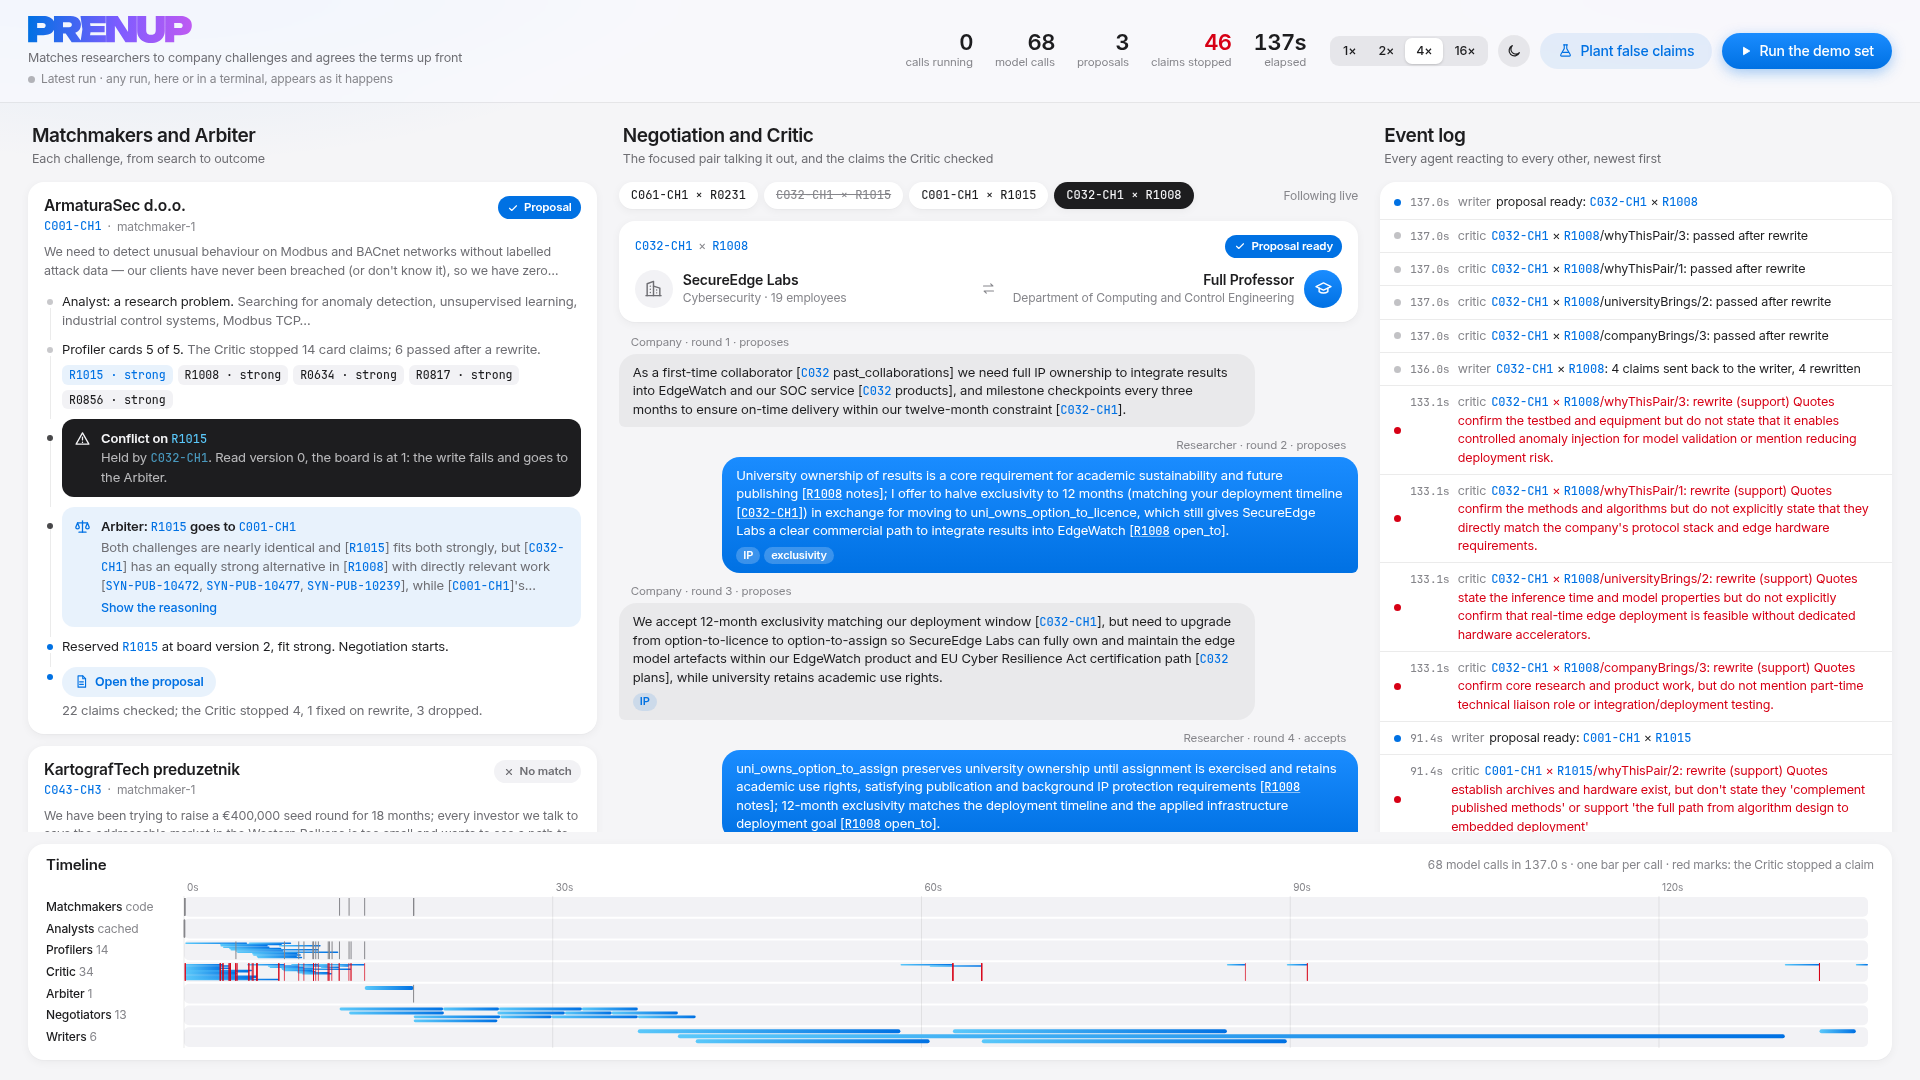
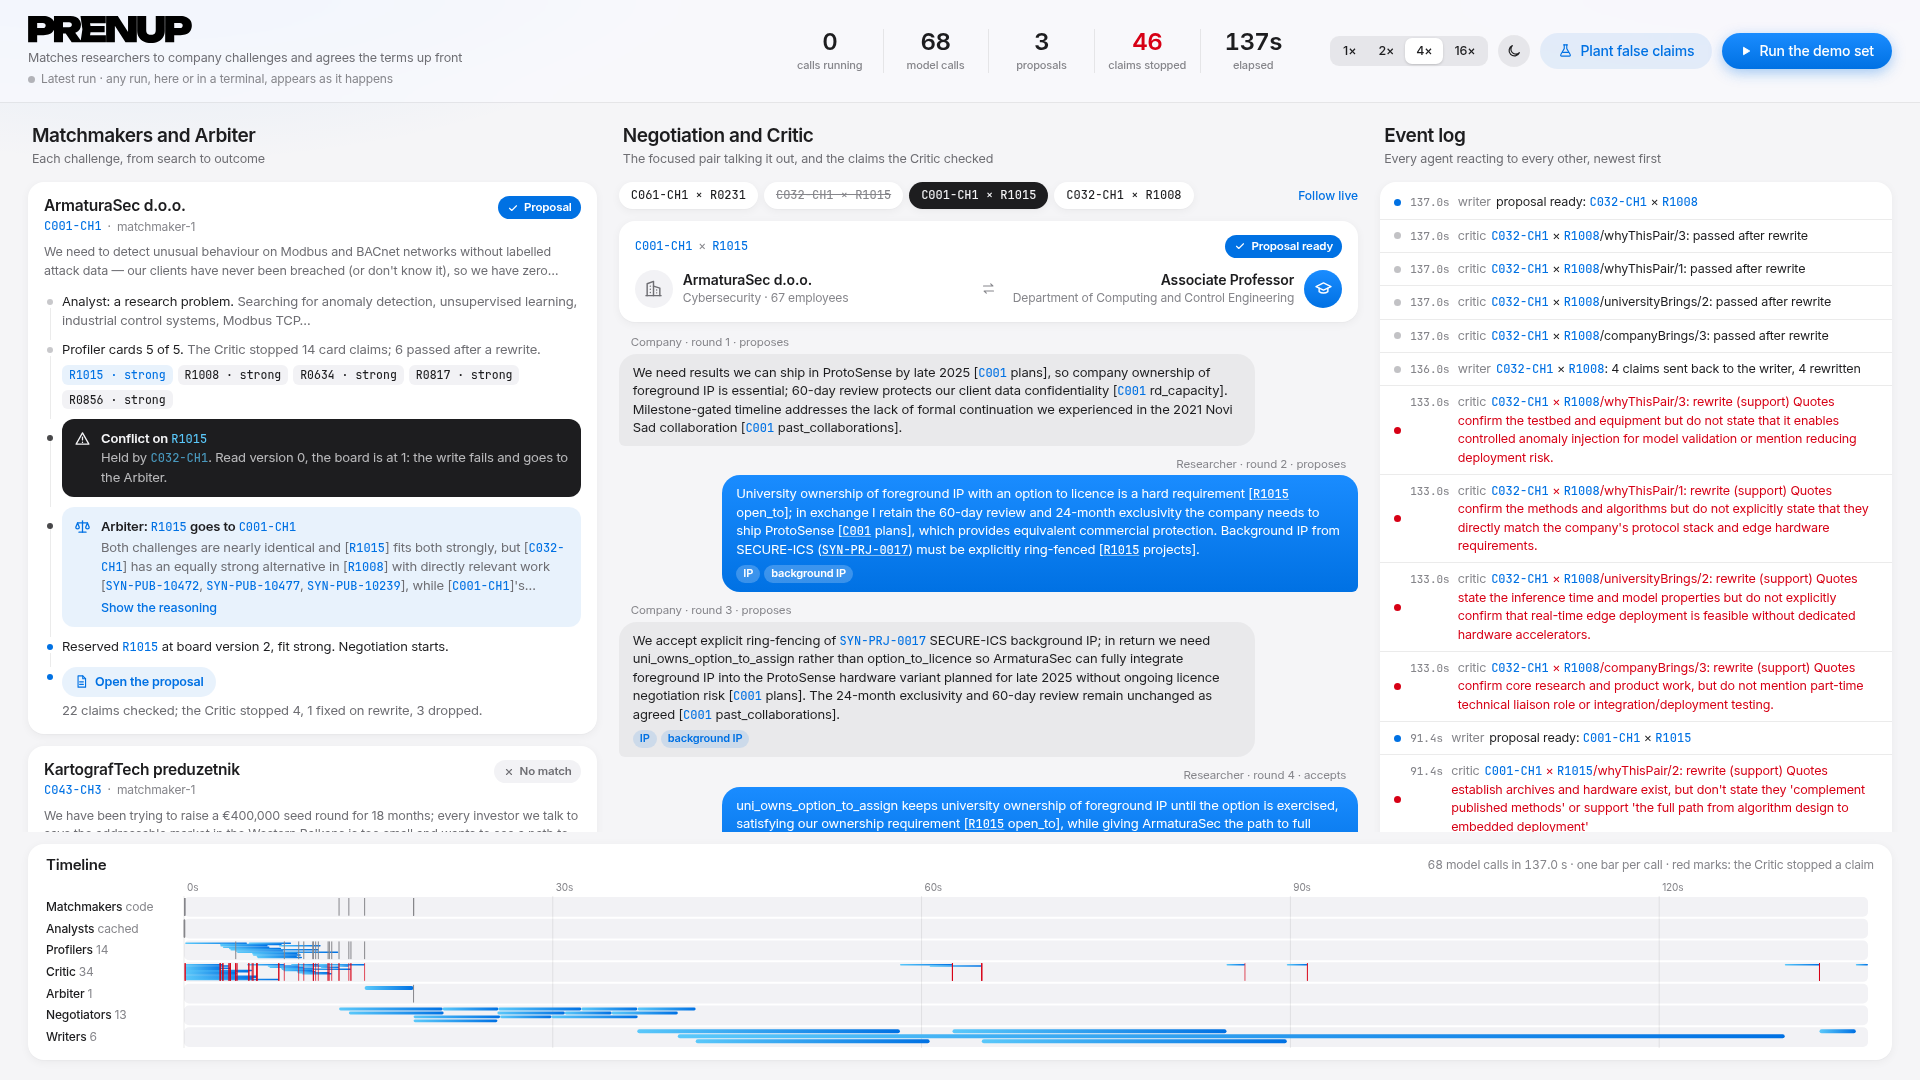
fix: make the first run work for judges on their own machines
- Board: start Run and Plant with Node and tsx's entry file, since the
  .bin shim can't be spawned on Windows; report a failed start instead of
  crashing.
- Header fits small laptops (1280 and 1366 wide); shorter timeline on
  short screens. Stats styled as centred columns.
- .gitattributes keeps LF so setup.sh runs under Git Bash with autocrlf.
- Node minimum 20.12 (parseEnv); README recommends 22 (vitest needs 22.12).
- One telemetry notice per run instead of 86.
- README: Windows steps, a two-minute board tour, what's weak in the
  Arbiter's reasoning and the negotiators' citations, a known false stop.
- New board screenshot.

diff --git a/src/board/index.html b/src/board/index.html
@@ -56,10 +56,11 @@
   .brand .status i { width: 7px; height: 7px; border-radius: 50%; background: var(--faint); opacity: .6; }
   .brand .status i.live { background: var(--accent); opacity: 1; animation: pulse 1.6s ease-out infinite; }
   @keyframes pulse { 0% { box-shadow: 0 0 0 0 rgba(0, 113, 227, .55); } 100% { box-shadow: 0 0 0 8px rgba(0, 113, 227, 0); } }
-  .stats { display: flex; gap: 22px; margin-left: auto; }
-  .stat { display: flex; flex-direction: column; align-items: flex-end; min-width: 52px; }
-  .stat b { font: 600 22px/1.05 var(--display); letter-spacing: -0.025em; font-variant-numeric: tabular-nums; }
-  .stat span { color: var(--faint); font-size: 11.5px; white-space: nowrap; }
+  .stats { display: grid; grid-auto-flow: column; grid-auto-columns: minmax(88px, 1fr); margin-left: auto; }
+  .stat { display: flex; flex-direction: column; align-items: center; gap: 5px; padding: 1px 14px; text-align: center; }
+  .stat + .stat { box-shadow: inset 1px 0 0 var(--line); }
+  .stat b { font: 600 24px/1 var(--display); letter-spacing: -0.025em; font-variant-numeric: tabular-nums; }
+  .stat span { color: var(--faint); font-size: 11px; line-height: 1.2; font-weight: 500; white-space: nowrap; }
   .stat.live b { color: var(--accent); }
   .stat.crit b { color: var(--red); }
   .controls { display: flex; align-items: center; gap: 10px; white-space: nowrap; }
@@ -234,7 +235,21 @@
   [data-enter] { animation: enter .4s ease-out both; }
   @keyframes enter { from { opacity: 0; transform: translateY(5px) scale(.99); } to { opacity: 1; transform: none; } }
   @media (prefers-reduced-motion: reduce) { [data-enter], .spin, .tl-open, .typing .bubble i, .brand .status i.live { animation: none; } }
-  @media (max-width: 1500px) { .brand .tagline { display: none; } header { gap: 18px; } .stats { gap: 18px; } }
+  @media (max-width: 1500px) { .brand .tagline { display: none; } header { gap: 18px; } .stats { grid-auto-columns: minmax(78px, 1fr); } .stat { padding: 1px 8px; } .stat b { font-size: 21px; } }
+  /* Small laptops: the status line gives way before the buttons, and the timeline before the columns. */
+  @media (max-width: 1420px) {
+    header { gap: 12px; padding: 12px 16px; }
+    .brand { flex: 1 1 164px; min-width: 164px; }
+    #note { overflow: hidden; text-overflow: ellipsis; }
+    .stats, .controls { flex: none; }
+    .stats { margin-left: 0; grid-auto-columns: minmax(70px, 1fr); }
+    .stat { padding: 1px 4px; }
+    .controls { gap: 6px; }
+    .controls .primary svg, .controls .secondary svg { display: none; }
+    #speed button { padding-left: 8px; padding-right: 8px; }
+  }
+  @media (max-width: 1270px) { header { flex-wrap: wrap; row-gap: 10px; } .controls { margin-left: auto; } }
+  @media (max-height: 800px) { :root { --strip: 180px; } }
   @media (max-width: 1100px) {
     body { display: block; }
     header { flex-wrap: wrap; gap: 14px; padding: 12px 16px; }

diff --git a/src/board/server.ts b/src/board/server.ts
@@ -88,19 +88,22 @@ function status(): string {
 
 function startRun(scene: Scene, speed: number): void {
   const script = scene === "demo" ? "src/run.ts" : "eval/critic.ts"
-  const child = spawn("node_modules/.bin/tsx", [script, "--replay", `--paced=${speed}`, `--trace=${TRACES[1]}`], { stdio: ["ignore", "pipe", "pipe"] })
+  // Node with tsx's own entry file: the node_modules/.bin/tsx shim can't be spawned directly on Windows.
+  const child = spawn(process.execPath, ["node_modules/tsx/dist/cli.mjs", script, "--replay", `--paced=${speed}`, `--trace=${TRACES[1]}`], { stdio: ["ignore", "pipe", "pipe"] })
   run = { child, speed, scene }
   broadcast("status", status())
+  const finished = (how: string) => {
+    run = undefined
+    broadcast("log", JSON.stringify(`run finished (${how})`))
+    broadcast("status", status())
+  }
   const forward = (chunk: Buffer) => {
     for (const line of chunk.toString("utf8").split("\n").filter((l) => l && !l.startsWith("mozaik cloud"))) broadcast("log", JSON.stringify(line))
   }
   child.stdout?.on("data", forward)
   child.stderr?.on("data", forward)
-  child.on("exit", (code) => {
-    run = undefined
-    broadcast("log", JSON.stringify(`run finished (exit ${code})`))
-    broadcast("status", status())
-  })
+  child.on("error", (error) => finished(`could not start: ${error.message}`)) // no "exit" follows; unhandled, it would kill the board
+  child.on("exit", (code) => finished(`exit ${code}`))
 }
 
 const server = createServer((req, res) => {

diff --git a/src/env.ts b/src/env.ts
@@ -12,3 +12,14 @@ try {
   // no .env
 }
 for (const [name, value] of Object.entries(parseEnv(file))) if (value) process.env[name] = value
+
+// With no key, Mozaik's telemetry client warns once per model loop (86 lines in a replay). One line says it.
+const warn = console.warn
+let warned = false
+console.warn = (...args: unknown[]) => {
+  if (String(args[0]).startsWith("mozaik cloud: no API key")) {
+    if (warned) return
+    warned = true
+  }
+  warn(...args)
+}

diff --git a/README.md b/README.md
@@ -14,6 +14,14 @@ Built on [Mozaik](https://github.com/jigjoy-ai/mozaik) for the NTP Novi Sad x Ji
 npm run setup && npm run demo -- --replay
 ```
 
+You need git and Node.js 22 (tested on 22.18, Linux; the demo needs at least 20.12, `npm test` at least 22.12). `npm run setup` needs bash. On Windows, use Git Bash or WSL, or run these three lines instead of it in any shell (not tested on Windows or macOS yet):
+
+```sh
+npm ci
+git clone https://github.com/jigjoy-ai/einstein-matchmaker-data.git data/einstein
+git -C data/einstein checkout 4fb99b3
+```
+
 `npm run setup` checks your tools, installs dependencies and clones the dataset at a pinned commit. `npm run demo -- --replay` runs the whole system from recorded model answers (`fixtures/`), with no key and no network. It writes:
 
 | Where | What |
@@ -30,6 +38,20 @@ npm run board
 ```
 
 Open http://localhost:4173 and press **Run the demo set** (the moon button switches to a dark theme). The agents run again on the recorded answers, and each answer arrives after the latency measured when it was recorded (4x faster by default), so the board shows the shape of the live run with no key: matchmakers and the Arbiter on the left, the focused pair's negotiation as a conversation between the two sides and every claim the Critic stopped in the middle, the event log on the right, and one bar per model call on the timeline. Ids link to the cited dataset record, and the header counts calls running, model calls, proposals and claims the Critic stopped. **Plant false claims** runs the Critic test on the board: the 20 planted claims below, each with its source and the check that stopped it. Both buttons write their own trace (`out/tmp/trace.board.jsonl`), so the committed one stays as it is; the board always shows the newest run, so an `npm run demo` started in a terminal shows up too. `npm run demo -- --replay --paced[=N]` is the same paced run from the command line.
+
+### A two-minute tour of the board
+
+Press **Run the demo set**. It takes about 40 s at 4x and ends with 3 proposals, 1 no-match and 46 claims stopped. Then look at:
+
+1. **The conflict.** On the ArmaturaSec card (`C001-CH1`): "Conflict on R1015", held by `C032-CH1`. Two matchmakers wanted the same researcher, and the second write failed the version check. Nobody overwrote anybody.
+2. **The decision.** The blue callout below it: the Arbiter gives R1015 to `C001-CH1`. It's a close call, and "Show the reasoning" has the whole text ([what's weak in it](#limits-and-honest-notes)).
+3. **The re-match.** The tabs above the middle column: `C032-CH1 × R1015` is struck through and `C032-CH1 × R1008` is new. Nobody told matchmaker-2 to do that; it reacted to the Arbiter's event.
+4. **The negotiation.** Click the `C001-CH1 × R1015` tab and read down. The company wants to own the results, the researcher keeps ownership and ring-fences an earlier project, and they settle on an option to take the results over. Below that are the agreed terms and **Open the proposal**.
+5. **The Critic.** Scroll that column to the bottom. In the last red card, the writer had turned one 2021 student project into a "prior working relationship". The quote doesn't say that, so the sentence never reached the proposal.
+6. **The no.** On the KartografTech card (`C043-CH3`): raising a seed round isn't a research problem. On the Zlatna Njiva card (`C061-CH1`), R0128 is skipped because the notes are about another person.
+7. **The trap.** Press **Plant false claims**: 20 false claims we planted on purpose, all stopped in about 5 s. The first row credits R0881 with a paper by R0128, who has the same name. Click `SYN-PUB-01689` and check the author id.
+
+**Run the demo set** brings the demo back after that. The header counts 87 model calls if nothing has run yet and 68 once `out/cache/` exists, because analyst and profile answers are then reused; any earlier run fills it. The outcome is the same. A plain `npm run demo -- --replay` has no pacing, so `C001-CH1` reserves first and it counts 86, with the same proposals. The live measurements below are separate runs with no cache.
 
 The default run takes the demo set of four challenges. Other challenges (`npm run demo -- C012-CH3 C041-CH2`) need your own Anthropic key in `.env` the first time: `npm run demo` calls the model only for answers not yet recorded, and records them.
 
@@ -165,10 +187,11 @@ Each proposal lists, under "How we got here", every claim the Critic stopped, wh
 ## Limits and honest notes
 
 - Not built yet: the human approval step.
-- The support check is a cheap model and strict: it stopped a third of the proposal sentences on the first pass, and we haven't measured how many of those were true. The people-praise check is a word list, and it also blocked a sentence that called a method's result "best".
-- The cheap model rates most shortlisted candidates as a strong fit, so search order often decides. The Arbiter's and the Profiler's fit reasons aren't checked by the Critic yet (we checked the Arbiter's citations above by hand).
+- The support check is a cheap model and strict: it stopped a third of the proposal sentences on the first pass, and we haven't measured how many of those were true. We know of at least one: it stopped "physical PLC simulators" on `C001-CH1 × R1015`, which is true (`C001`'s tech stack), because the writer quoted a field that doesn't mention them. The people-praise check is a word list, and it also blocked a sentence that called a method's result "best".
+- The cheap model rates most shortlisted candidates as a strong fit, so search order often decides. The Arbiter's and the Profiler's fit reasons aren't checked by the Critic yet. We checked by hand that each paper the Arbiter cites is by the researcher it's cited for, but its reasoning is weaker than that: the two challenges are nearly identical, it says `SYN-PUB-10526` is cited only for `C032-CH1` when it's on both cards, and it credits "deployment guidance" to `SYN-PUB-10525` when that's in `SYN-PUB-10523`. What the design guarantees is that nobody is double-booked, not that the model picked the better side of a close call.
 - After a no-deal the researcher stays reserved for that challenge.
-- Negotiators cite fields of their position cards in each move; the Critic doesn't check those citations yet.
+- Negotiators cite fields of their position cards in each move; the Critic doesn't check those citations yet, and some are loose. In `C001-CH1 × R1015`, round 2 cites `open_to` for university ownership, but `open_to` only lists engagement types: that stance comes from the role the negotiator is given. Rounds 1 and 3 tie ProtoSense to a late-2025 plan that names a hardware variant.
+- Tested on Linux with Node 22 only.
 
 ## Tech
 
